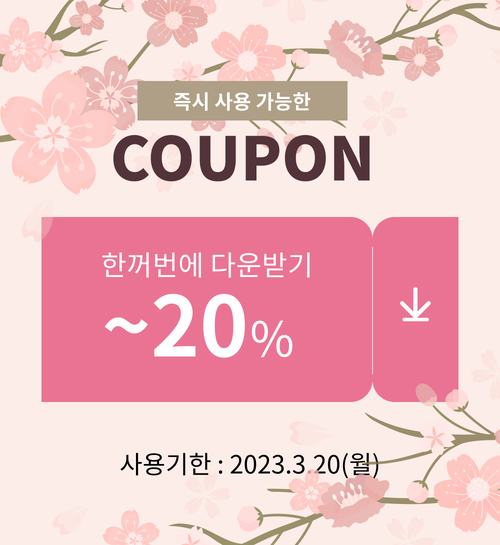
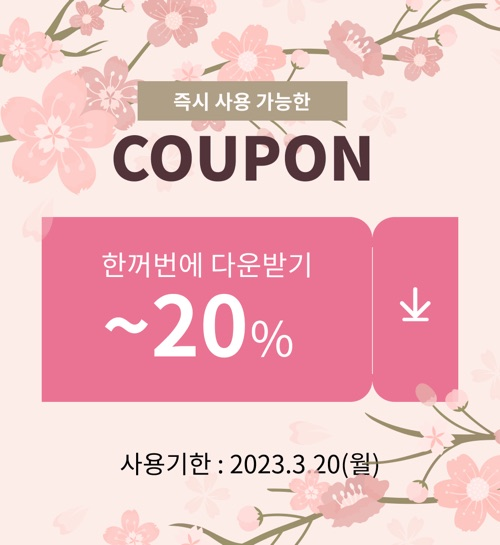
프레임 선택 전에 완성 예시를 명확히 확인하게 한다
모든 키위 템플릿 카탈로그 이미지를 대응 JPEG 완성본으로 통일하고 세로 디자인이 읽히도록 썸네일 비율을 확장했다. 에디터 삽입 결과는 기존 네이티브 요소와 교체 가능한 이미지 슬롯을 유지한다.

Constraint: 카탈로그 예시는 완성 형태로 보여야 하지만 편집 캔버스에는 평면화된 JPEG를 삽입하면 안 됨

Rejected: 투명 PNG 오버레이를 썸네일로 계속 사용 | 바둑판과 분리 요소가 깨진 이미지처럼 보임

Confidence: high

Scope-risk: narrow

Directive: 카탈로그 preview와 캔버스 elements/slots를 계속 독립적으로 관리할 것

Tested: pnpm test:frontend 565 passed; pnpm build passed; 20-preview contact sheet inspected

Not-tested: authenticated production editor session

diff --git a/src/styles/features.css b/src/styles/features.css
@@ -1591,10 +1591,10 @@
 .frame-prev > i { background: #fff; border-radius: 2px; box-shadow: 0 0 0 1px var(--ring); }
 .frame-layout-prev { position: relative; display: block; padding: 0; overflow: hidden; }
 .frame-layout-prev > i { position: absolute; min-width: 3px; min-height: 3px; }
-.frame-layout-prev.template { background-color: #f6f6f7; background-image: linear-gradient(45deg, #e4e4e7 25%, transparent 25%), linear-gradient(-45deg, #e4e4e7 25%, transparent 25%), linear-gradient(45deg, transparent 75%, #e4e4e7 75%), linear-gradient(-45deg, transparent 75%, #e4e4e7 75%); background-size: 12px 12px; background-position: 0 0, 0 6px, 6px -6px, -6px 0; }
+.frame-layout-prev.template { height: auto; aspect-ratio: 3 / 4; background: #f3f3f4; box-shadow: inset 0 0 0 1px var(--ring); }
 .frame-layout-prev.template > i { background: transparent; box-shadow: none; }
 .frame-layout-prev > i > img { display: block; width: 100%; height: 100%; object-fit: cover; border-radius: inherit; }
-.frame-layout-prev.template > img { position: absolute; inset: 0; z-index: 2; width: 100%; height: 100%; object-fit: contain; pointer-events: none; }
+.frame-layout-prev.template > img { position: absolute; inset: 0; z-index: 2; width: 100%; height: 100%; object-fit: contain; background: #fff; pointer-events: none; }
 .frame-item .fl { display: flex; align-items: center; gap: 5px; font-size: 12.5px; font-weight: 500; color: var(--fg-1); }
 .frame-rec { margin-left: auto; padding: 1px 5px; border-radius: 5px; background: #eef4fb; color: #4f88c9; font-size: 9.5px; font-weight: 700; }
 .frame-image-actions { display: grid; grid-template-columns: repeat(2, minmax(0, 1fr)); gap: 6px; }

diff --git a/src/features/editor/editorLibrary.js b/src/features/editor/editorLibrary.js
@@ -61,7 +61,9 @@ const kiwiTemplate = ({ id, label, h, bg, elements, preview }) => ({
   elements,
   slots: elements.filter((element) => element.type === 'image' && element.frameSlot),
   // The supplied artwork is a catalog thumbnail only. Inserted blocks are native elements.
-  preview: preview || `/assets/editor/kiwi-templates/kiwi-${id}-overlay.png`,
+  // Catalog cards show the completed JPEG reference. The block itself still
+  // inserts the native editable elements and replaceable photo slots above.
+  preview: preview || templatePreview(id),
 });
 
 export const FRAME_LIBRARY_ITEMS = [
